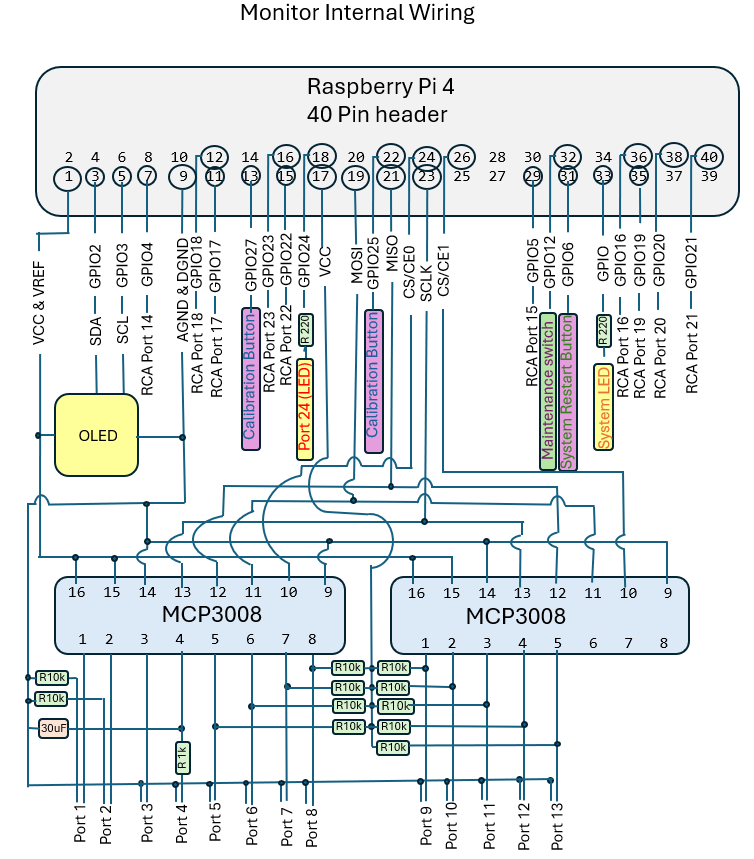
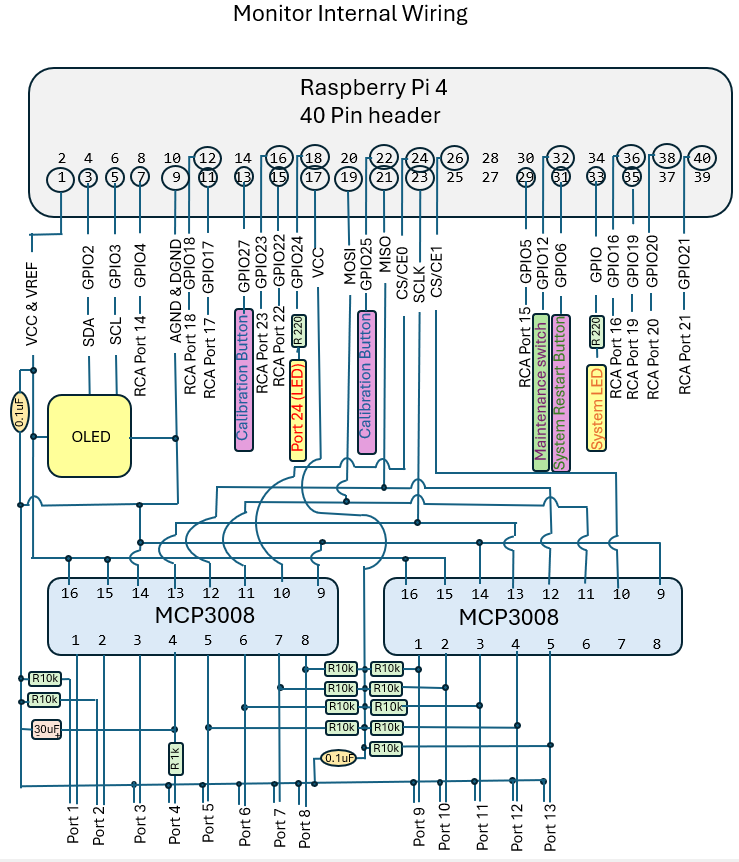
Update documentation
Add missing capacitors to the schematic. Update the bash scripts and service files in the readme.

Changed region(s): [[0.0, 0.0605, 0.9959, 0.9988], [0.3112, 0.0, 0.6536, 0.0303]]

diff --git a/README.md b/README.md
@@ -148,80 +148,59 @@ In the SSH session, run the following command to create a new service file:
 
 Bash
 
-sudo nano /etc/systemd/system/aquamon.service
+sudo nano /etc/systemd/system/reef\_monitor.service
 
 Service file:
 
-\[Unit\]
-
+[Unit]
 Description=Reef Aquarium Monitor Script
+After=network-online.target
+Wants=network-online.target
 
-After=network.target
-
-\[Service\]
-
+[Service]
 User=aquamon
-
 \# Add Environment variable here
-
-Environment="AQUAMON\_EMAIL=[your\_email@gmail.com](mailto:your_email@gmail.com)"
-
-Environment="AQUAMON\_EMAIL\_PW=\_PW=your\_app\_password"
-
+Environment="AQUAMON_EMAIL=aquamonemail@gmail.com"
+Environment="AQUAMON_EMAIL_PW=abcdefghijklmnop"
 \# Path to your python interpreter and your script
-
 ExecStart=/home/aquamon/reef\_monitor/env/bin/python3 -u /home/aquamon/reef\_monitor/aquamon.py
-
 \# Working directory (helps if your script loads fonts or images from its own folder)
-
 WorkingDirectory=/home/aquamon/reef\_monitor
-
 \# Restart logic
-
 Restart=on-failure
-
 \# Wait 10 seconds before restarting to prevent rapid-fire loops
-
 RestartSec=10s
 
-\[Install\]
-
+[Install]
 WantedBy=multi-user.target
 
 Notice that I used Restart=on-failure. This is convenient for allowing on-going development and debug work. If the monitor exits with a 0 return code or if it is externally terminated by a signal, the service will not restart automatically. Only when the monitor ends abnormally will the service restart the monitor. During developement/debug I would typically stop the service and run the the monitor in an ssh'ed terminal session. I also have a reef shutdown service that runs separately to provide restart and shutdown via buttons. This would done as a separate service so that if the monitor ends or is hung, the restart and shutdown button actions would still be active.
 
-\[Unit\]
+sudo nano /etc/systemd/system/reef\_shutdown.service
 
+[Unit]
 Description=Reef Monitor Hardware Shutdown Button
-
 After=network.target
 
-\[Service\]
-
+[Service]
 Type=simple
-
 ExecStart=/usr/bin/python3 /home/aquamon/reef\_monitor/shutdown\_button.py
-
 Restart=always
-
 RestartSec=5
-
 User=root
 
-\[Install\]
-
+[Install]
 WantedBy=multi-user.target
-
 ### Managing the Monitor
 
 Now that it's running in the background, use these commands to check on it:
 
 | Task | Command |
 | --- | --- |
-| Check if it's running | sudo systemctl status aquamon.service |
-| Stop the monitor | sudo systemctl stop aquamon.service |
-| Restart monitor | sudo systemctl restart aquamon.service |
-| View live logs | journalctl -u aquamon.service -f |
+| Check if it's running | sudo systemctl status reef\_monitor.service |
+| Stop the monitor | sudo systemctl stop reef\_monitor.service |
+| Restart monitor | sudo systemctl restart reef\_monitor.service |
+| View live logs | journalctl -u reef\_monitor.service -f |
 
 ### Install Rclone
 
@@ -234,6 +213,17 @@ The command rclone copy is **one-way only**. It behaves like a "push" or an "upl
 *   When it asks **"Use auto config?"**, type **n** (No).
 *   Copy the command given (e.g., rclone authorize "dropbox") and run it on your Windows PC.
 *   Log in to Dropbox in your browser, click **Allow**, and paste the resulting token back into the Pi.
+
+## Setup aliases
+
+nano ~/.bash\_aliases
+
+alias update-aquamon='rclone copyto dropbox:GitHub/Aquarium-Monitor/aquamon.py ~/reef\_monitor/aquamon.py && echo "aquam>
+alias update-config='rclone copyto dropbox:GitHub/Aquarium-Monitor/config.txt ~/reef\_monitor/config.txt && echo "config>
+alias monitor-logs='TZ="America/Chicago" journalctl -u reef\_monitor.service --no-pager -n 40'
+
+The update-\* aliases make code testing convenient. SSH to the system from your device, and assuming your device has dropbox access to the local repository directory, run the scripts to update the code and configuration files as needed.
+
 
 ## Monitor Enclosure
 
